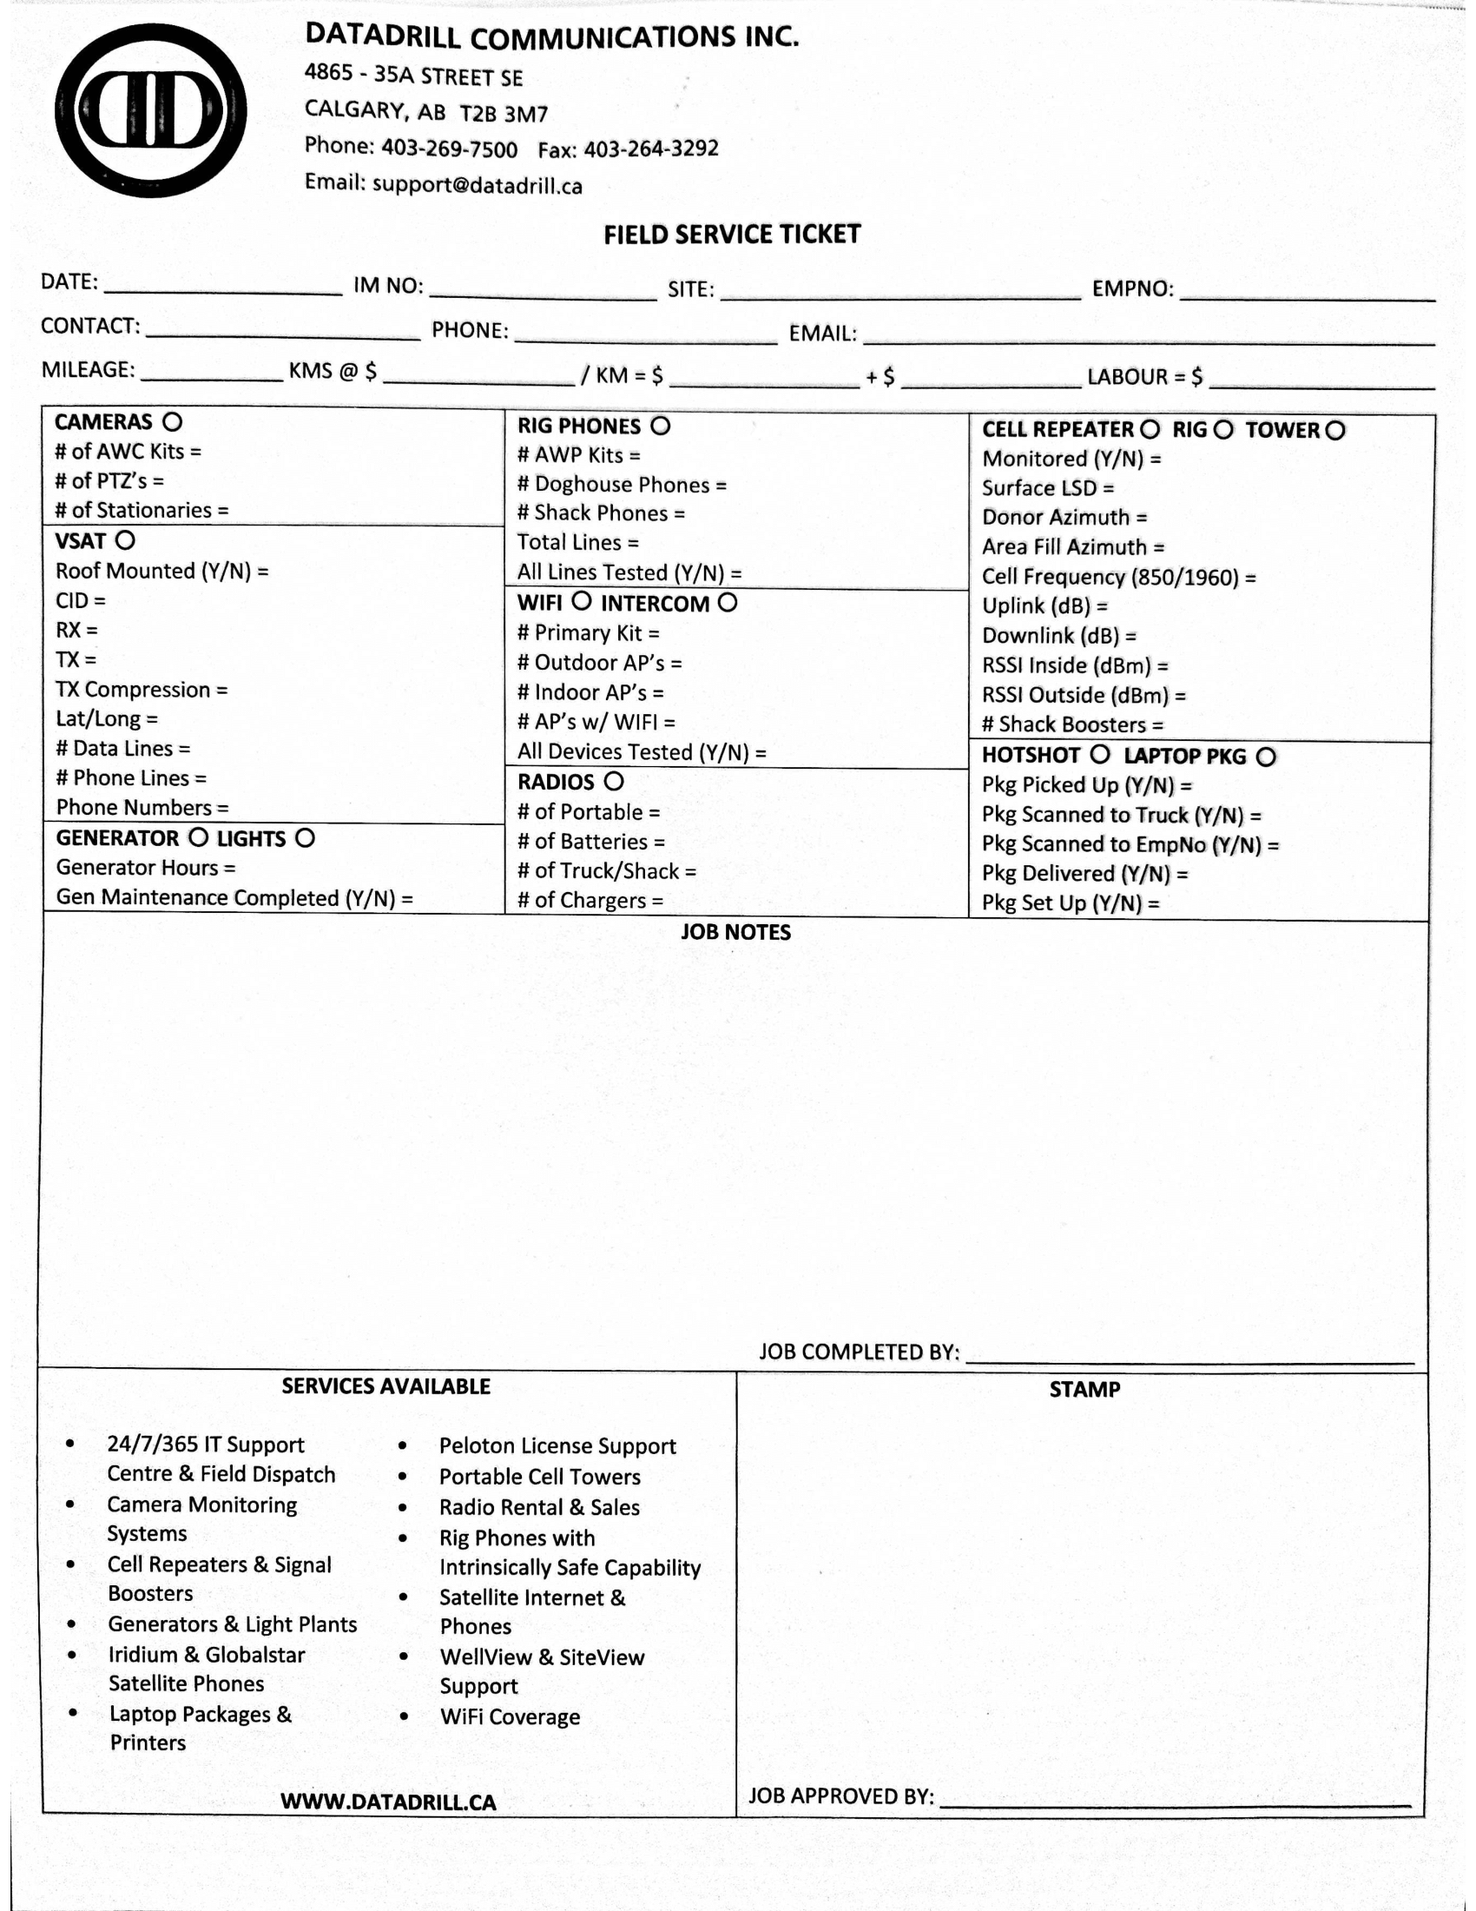
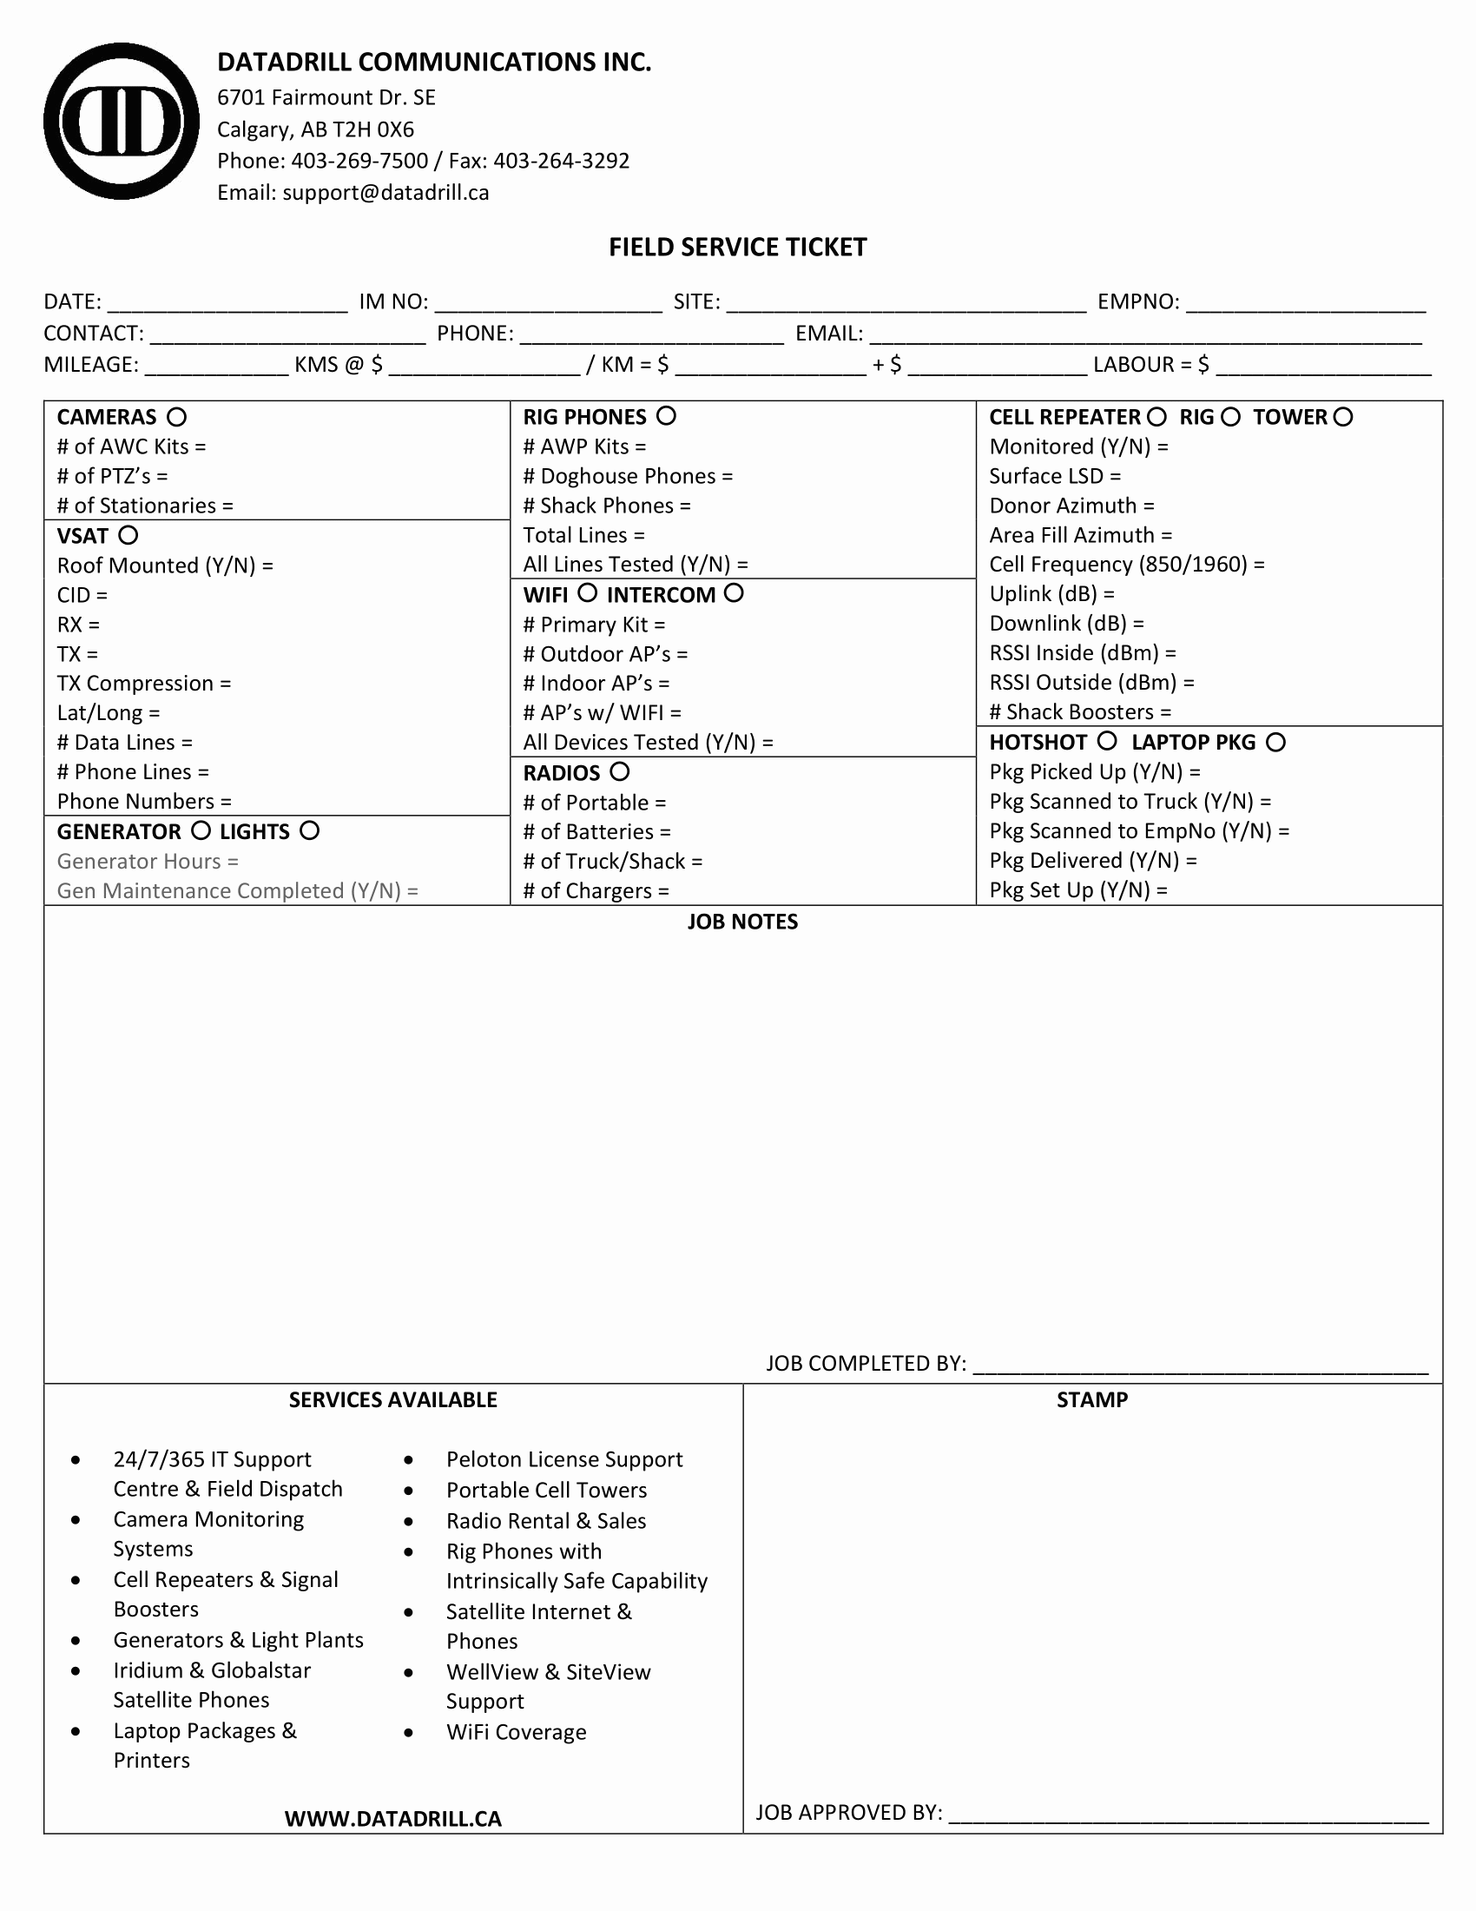
main: added clear button, better scan, and removed ticket no

diff --git a/src/App.js b/src/App.js
@@ -660,17 +660,24 @@ function App() {
                 value={formData.completed_by}
                 onChange={handleChange}
                 />
-                <input
+                {/* <input
                 name="ticket_no"
                 placeholder="Ticket #"
                 className='shared-input'
                 value={formData.ticket_no}
                 onChange={handleChange}
-                />
+                /> */}
 
                 <br/>
 
                 <h2>Signature</h2>
+                <button 
+                type='button'
+                onClick={() => {sigCanvas.current.clear(); duplicateCanvas.current.clear()}}
+                style={{width: '60px', height: '20px'}}
+                >
+                    clear
+                </button>
                 <SignatureCanvas penColor='blue' ref={sigCanvas} onEnd={handleStrokeEnd} canvasProps={{className: 'sigCanvas'}} />
 
                 <br/>
@@ -693,14 +700,16 @@ function App() {
                 boxSizing: 'border-box',
                 backgroundImage: 'url('+ticketScan+')',
                 backgroundSize: '100% 100%',
-                position: 'relative'
+                position: 'relative',
+                marginLeft: 'auto',
+                marginRight: 'auto'
             }}>
                 <div
                 className="shared-text"
                 style={{
                     position: 'absolute',
                     top: '15px',
-                    left: '550px',
+                    left: '600px',
                     width: '120px',
                     display: 'flex',
                     flexDirection: 'column',
@@ -734,105 +743,105 @@ function App() {
 
                 <br/>
 
-                <p className="shared-text" style={{top: '139px', left: '56px'}}>{formatted}</p>
-                <p className="shared-text" style={{top: '142px', left: '232px'}}>{formData.ImNo}</p>
-                <p className="shared-text" style={{top: '143px', left: '390px'}}>{formData.site}</p>
-                <p className="shared-text" style={{top: '143px', left: '636px'}}>{formData.empNo}</p>
+                <p className="shared-text" style={{top: '150px', left: '58px'}}>{formatted}</p>
+                <p className="shared-text" style={{top: '150px', left: '233px'}}>{formData.ImNo}</p>
+                <p className="shared-text" style={{top: '150px', left: '391px'}}>{formData.site}</p>
+                <p className="shared-text" style={{top: '150px', left: '638px'}}>{formData.empNo}</p>
 
-                <p className="shared-text" style={{top: '165px', left: '79px'}}>{formData.contact}</p>
-                <p className="shared-text" style={{top: '168px', left: '278px'}}>{formData.phone}</p>
-                <p className="shared-text" style={{top: '170px', left: '466px'}}>{formData.email}</p>
+                <p className="shared-text" style={{top: '169px', left: '80px'}}>{formData.contact}</p>
+                <p className="shared-text" style={{top: '169px', left: '279px'}}>{formData.phone}</p>
+                <p className="shared-text" style={{top: '169px', left: '467px'}}>{formData.email}</p>
 
-                <p className="shared-text" style={{top: '191px', left: '78px'}}>{formData.milage}</p>
-                <p className="shared-text" style={{top: '192px', left: '204px'}}>{formatToTwoDecimals(formData.milage_rate)}</p>
-                <p className="shared-text" style={{top: '195px', left: '360px'}}>{formatToTwoDecimals(parseFloat(formData.milage) * parseFloat(formData.milage_rate))}</p>
-                <p className="shared-text" style={{top: '195px', left: '484px'}}>{formatToTwoDecimals(formData.labor_cost)}</p>
-                <p className="shared-text" style={{top: '195px', left: '650px'}}>{formatToTwoDecimals(parseFloat(formData.labor_cost) + (parseFloat(formData.milage || 0) * parseFloat(formData.milage_rate)))}</p>
+                <p className="shared-text" style={{top: '188px', left: '78px'}}>{formData.milage}</p>
+                <p className="shared-text" style={{top: '188px', left: '208px'}}>{formatToTwoDecimals(formData.milage_rate)}</p>
+                <p className="shared-text" style={{top: '188px', left: '362px'}}>{formatToTwoDecimals(parseFloat(formData.milage) * parseFloat(formData.milage_rate))}</p>
+                <p className="shared-text" style={{top: '188px', left: '486px'}}>{formatToTwoDecimals(formData.labor_cost)}</p>
+                <p className="shared-text" style={{top: '188px', left: '652px'}}>{formatToTwoDecimals(parseFloat(formData.labor_cost) + (parseFloat(formData.milage || 0) * parseFloat(formData.milage_rate)))}</p>
 
                 {formData.cameras && <>
-                <input type="checkbox" className="shared-text" checked={true} style={{top: '238px', left: '84px', width: '12px'}}/>
-                <p className="shared-text" style={{top: '240px', left: '112px'}}>{formData.AWC_kits}</p>
-                <p className="shared-text" style={{top: '255px', left: '92px'}}>{formData.ptz}</p>
-                <p className="shared-text" style={{top: '274px', left: '126px'}}>{formData.stationaries}</p>
+                <input type="checkbox" className="shared-text" checked={true} style={{top: '235px', left: '85px', width: '12px'}}/>
+                <p className="shared-text" style={{top: '236px', left: '114px'}}>{formData.AWC_kits}</p>
+                <p className="shared-text" style={{top: '253px', left: '94px'}}>{formData.ptz}</p>
+                <p className="shared-text" style={{top: '271px', left: '128px'}}>{formData.stationaries}</p>
                 </>}
 
                 {(formData.generator || formData.lights) && <>
                 {formData.generator &&
-                <input type="checkbox" className="shared-text" checked={true} style={{top: '481px', left: '98px', width: '12px'}}/>}
+                <input type="checkbox" className="shared-text" checked={true} style={{top: '478px', left: '99px', width: '12px'}}/>}
                 {formData.lights &&
-                <input type="checkbox" className="shared-text" checked={true} style={{top: '481px', left: '156px', width: '12px'}}/>}
-                <p className="shared-text" style={{top: '483px', left: '130px'}}>{formData.gen_hours}</p>
-                <p className="shared-text" style={{top: '501px', left: '226px'}}>{formData.gen_maint_complete ? "Yes" : "No"}</p>
+                <input type="checkbox" className="shared-text" checked={true} style={{top: '478px', left: '157px', width: '12px'}}/>}
+                <p className="shared-text" style={{top: '480px', left: '131px'}}>{formData.gen_hours}</p>
+                <p className="shared-text" style={{top: '497px', left: '228px'}}>{formData.gen_maint_complete ? "Yes" : "No"}</p>
                 </>}
 
                 {(formData.rigphones) && <>
-                <input type="checkbox" className="shared-text" checked={true} style={{top: '240px', left: '347px', width: '12px'}}/>
-                <p className="shared-text" style={{top: '241px', left: '350px', }}>{formData.AWP_kits}</p>
-                <p className="shared-text" style={{top: '259px', left: '394px'}}>{formData.doghouse_phones}</p>
-                <p className="shared-text" style={{top: '275px', left: '371px'}}>{formData.shack_phones}</p>
-                <p className="shared-text" style={{top: '292px', left: '348px'}}>{formData.total_lines}</p>
-                <p className="shared-text" style={{top: '311px', left: '400px'}}>{formData.lines_tested_YN ? "Yes" : "No"}</p>
+                <input type="checkbox" className="shared-text" checked={true} style={{top: '235px', left: '349px', width: '12px'}}/>
+                <p className="shared-text" style={{top: '237px', left: '352px', }}>{formData.AWP_kits}</p>
+                <p className="shared-text" style={{top: '255px', left: '396px'}}>{formData.doghouse_phones}</p>
+                <p className="shared-text" style={{top: '271px', left: '373px'}}>{formData.shack_phones}</p>
+                <p className="shared-text" style={{top: '288px', left: '350px'}}>{formData.total_lines}</p>
+                <p className="shared-text" style={{top: '306px', left: '404px'}}>{formData.lines_tested_YN ? "Yes" : "No"}</p>
                 </>}
 
 
                 {(formData.wifi || formData.intercom) && <>
                 {formData.wifi &&
-                <input type="checkbox" className="shared-text" checked={true} style={{top: '343px', left: '305px', width: '12px'}}/>}
+                <input type="checkbox" className="shared-text" checked={true} style={{top: '338px', left: '307px', width: '12px'}}/>}
                 {formData.intercom &&
-                <input type="checkbox" className="shared-text" checked={true} style={{top: '343px', left: '383px', width: '12px'}}/>}
-                <p className="shared-text" style={{top: '344px', left: '358px'}}>{formData.primary_kit}</p>
-                <p className="shared-text" style={{top: '362px', left: '370px'}}>{formData.outdoor_APs}</p>
-                <p className="shared-text" style={{top: '380px', left: '362px'}}>{formData.indoor_APs}</p>
-                <p className="shared-text" style={{top: '397px', left: '367px'}}>{formData.wifi_APs}</p>
-                <p className="shared-text" style={{top: '416px', left: '414px'}}>{formData.devices_tested_YN ? "Yes" : "No"}</p>
+                <input type="checkbox" className="shared-text" checked={true} style={{top: '338px', left: '387px', width: '12px'}}/>}
+                <p className="shared-text" style={{top: '339px', left: '362px'}}>{formData.primary_kit}</p>
+                <p className="shared-text" style={{top: '357px', left: '374px'}}>{formData.outdoor_APs}</p>
+                <p className="shared-text" style={{top: '375px', left: '366px'}}>{formData.indoor_APs}</p>
+                <p className="shared-text" style={{top: '392px', left: '371px'}}>{formData.wifi_APs}</p>
+                <p className="shared-text" style={{top: '411px', left: '418px'}}>{formData.devices_tested_YN ? "Yes" : "No"}</p>
                 </>}
 
 
                 {(formData.radios) && <>
-                <input type="checkbox" className="shared-text" checked={true} style={{top: '448px', left: '322px', width: '12px'}}/>
-                <p className="shared-text" style={{top: '449px', left: '359px'}}>{formData.portable}</p>
-                <p className="shared-text" style={{top: '468px', left: '360px'}}>{formData.batteries}</p>
-                <p className="shared-text" style={{top: '485px', left: '377px'}}>{formData.truck_shack}</p>
-                <p className="shared-text" style={{top: '502px', left: '360px'}}>{formData.chargers}</p>
+                <input type="checkbox" className="shared-text" checked={true} style={{top: '443px', left: '324px', width: '12px'}}/>
+                <p className="shared-text" style={{top: '446px', left: '363px'}}>{formData.portable}</p>
+                <p className="shared-text" style={{top: '464px', left: '364px'}}>{formData.batteries}</p>
+                <p className="shared-text" style={{top: '481px', left: '381px'}}>{formData.truck_shack}</p>
+                <p className="shared-text" style={{top: '497px', left: '364px'}}>{formData.chargers}</p>
                 </>}
 
 
                 {(formData.callrepeater || formData.rig || formData.tower) && <>
                 {formData.callrepeater &&
-                <input type="checkbox" className="shared-text" checked={true} style={{top: '242px', left: '610px', width: '12px'}}/>}
+                <input type="checkbox" className="shared-text" checked={true} style={{top: '235px', left: '614px', width: '12px'}}/>}
                 {formData.rig &&
-                <input type="checkbox" className="shared-text" checked={true} style={{top: '242px', left: '650px', width: '12px'}}/>}
+                <input type="checkbox" className="shared-text" checked={true} style={{top: '235px', left: '654px', width: '12px'}}/>}
                 {formData.tower &&
-                <input type="checkbox" className="shared-text" checked={true} style={{top: '243px', left: '710px', width: '12px'}}/>}
-                <p className="shared-text" style={{top: '243px', left: '628px'}}>{formData.monitored_YN ? "Yes" : "No"}</p>
-                <p className="shared-text" style={{top: '260px', left: '601px'}}>{formData.lsd}</p>
-                <p className="shared-text" style={{top: '277px', left: '620px'}}>{formData.donor_azimuth}</p>
-                <p className="shared-text" style={{top: '294px', left: '630px'}}>{formData.area_fill_azimuth}</p>
-                <p className="shared-text" style={{top: '312px', left: '678px'}}>{formData.cell_frequency}</p>
-                <p className="shared-text" style={{top: '330px', left: '599px'}}>{formData.uplink}</p>
-                <p className="shared-text" style={{top: '347px', left: '613px'}}>{formData.downlink}</p>
-                <p className="shared-text" style={{top: '364px', left: '630px'}}>{formData.rssi_inside}</p>
-                <p className="shared-text" style={{top: '381px', left: '640px'}}>{formData.rssi_outside}</p>
-                <p className="shared-text" style={{top: '399px', left: '628px'}}>{formData.shack_boosters}</p>
+                <input type="checkbox" className="shared-text" checked={true} style={{top: '235px', left: '715px', width: '12px'}}/>}
+                <p className="shared-text" style={{top: '237px', left: '632px'}}>{formData.monitored_YN ? "Yes" : "No"}</p>
+                <p className="shared-text" style={{top: '254px', left: '605px'}}>{formData.lsd}</p>
+                <p className="shared-text" style={{top: '271px', left: '624px'}}>{formData.donor_azimuth}</p>
+                <p className="shared-text" style={{top: '288px', left: '634px'}}>{formData.area_fill_azimuth}</p>
+                <p className="shared-text" style={{top: '306px', left: '682px'}}>{formData.cell_frequency}</p>
+                <p className="shared-text" style={{top: '324px', left: '603px'}}>{formData.uplink}</p>
+                <p className="shared-text" style={{top: '341px', left: '617px'}}>{formData.downlink}</p>
+                <p className="shared-text" style={{top: '358px', left: '634px'}}>{formData.rssi_inside}</p>
+                <p className="shared-text" style={{top: '375px', left: '644px'}}>{formData.rssi_outside}</p>
+                <p className="shared-text" style={{top: '392px', left: '632px'}}>{formData.shack_boosters}</p>
                 </>}
 
 
                 {(formData.hotshot || formData.laptoppackage) && <>
                 {formData.hotshot &&
-                <input type="checkbox" className="shared-text" checked={true} style={{top: '432px', left: '583px', width: '12px'}}/>}
+                <input type="checkbox" className="shared-text" checked={true} style={{top: '425px', left: '587px', width: '12px'}}/>}
                 {formData.laptoppackage &&
-                <input type="checkbox" className="shared-text" checked={true} style={{top: '434px', left: '673px', width: '12px'}}/>}
-                <p className="shared-text" style={{top: '433px', left: '644px'}}>{formData.pkg_picked_up ? "Yes" : "No"}</p>
-                <p className="shared-text" style={{top: '451px', left: '680px'}}>{formData.pkg_scanned_truck ? "Yes" : "No"}</p>
-                <p className="shared-text" style={{top: '469px', left: '690px'}}>{formData.pkg_scanned_emp ? "Yes" : "No"}</p>
-                <p className="shared-text" style={{top: '486px', left: '641px'}}>{formData.pkg_delivered ? "Yes" : "No"}</p>
-                <p className="shared-text" style={{top: '503px', left: '627px'}}>{formData.pkg_set_up ? "Yes" : "No"}</p>
+                <input type="checkbox" className="shared-text" checked={true} style={{top: '425px', left: '678px', width: '12px'}}/>}
+                <p className="shared-text" style={{top: '427px', left: '648px'}}>{formData.pkg_picked_up ? "Yes" : "No"}</p>
+                <p className="shared-text" style={{top: '445px', left: '684px'}}>{formData.pkg_scanned_truck ? "Yes" : "No"}</p>
+                <p className="shared-text" style={{top: '463px', left: '694px'}}>{formData.pkg_scanned_emp ? "Yes" : "No"}</p>
+                <p className="shared-text" style={{top: '480px', left: '645px'}}>{formData.pkg_delivered ? "Yes" : "No"}</p>
+                <p className="shared-text" style={{top: '497px', left: '631px'}}>{formData.pkg_set_up ? "Yes" : "No"}</p>
                 </>}
 
 
                 <p className="shared-text" style={{top: '540px', left: '40px', width: '706px', whiteSpace: 'pre-wrap'}}>{formData.notes}</p>
-                <p className="shared-text" style={{top: '765px', left: '520px', width: '300px'}}>{formData.completed_by}</p>
-                <p className="shared-text" style={{top: '1040px', left: '356px', width: '300px', fontSize: '26px', fontFamily: 'Times New Roman', color: '#333333'}}>{formData.ticket_no}</p>
+                <p className="shared-text" style={{top: '772px', left: '524px', width: '300px'}}>{formData.completed_by}</p>
+                {/* <p className="shared-text" style={{top: '1040px', left: '356px', width: '300px', fontSize: '26px', fontFamily: 'Times New Roman', color: '#333333'}}>{formData.ticket_no}</p> */}
 
                 <SignatureCanvas penColor='blue' ref={duplicateCanvas} canvasProps={{className: 'sigCanvas2'}} />
             </div>

diff --git a/src/App.css b/src/App.css
@@ -68,7 +68,7 @@ h2 {
 
 .sigCanvas2 {
     position: absolute;
-    top: 804px;
+    top: 808px;
     width: 370px;
     height: 260px;
     pointer-events: none;
